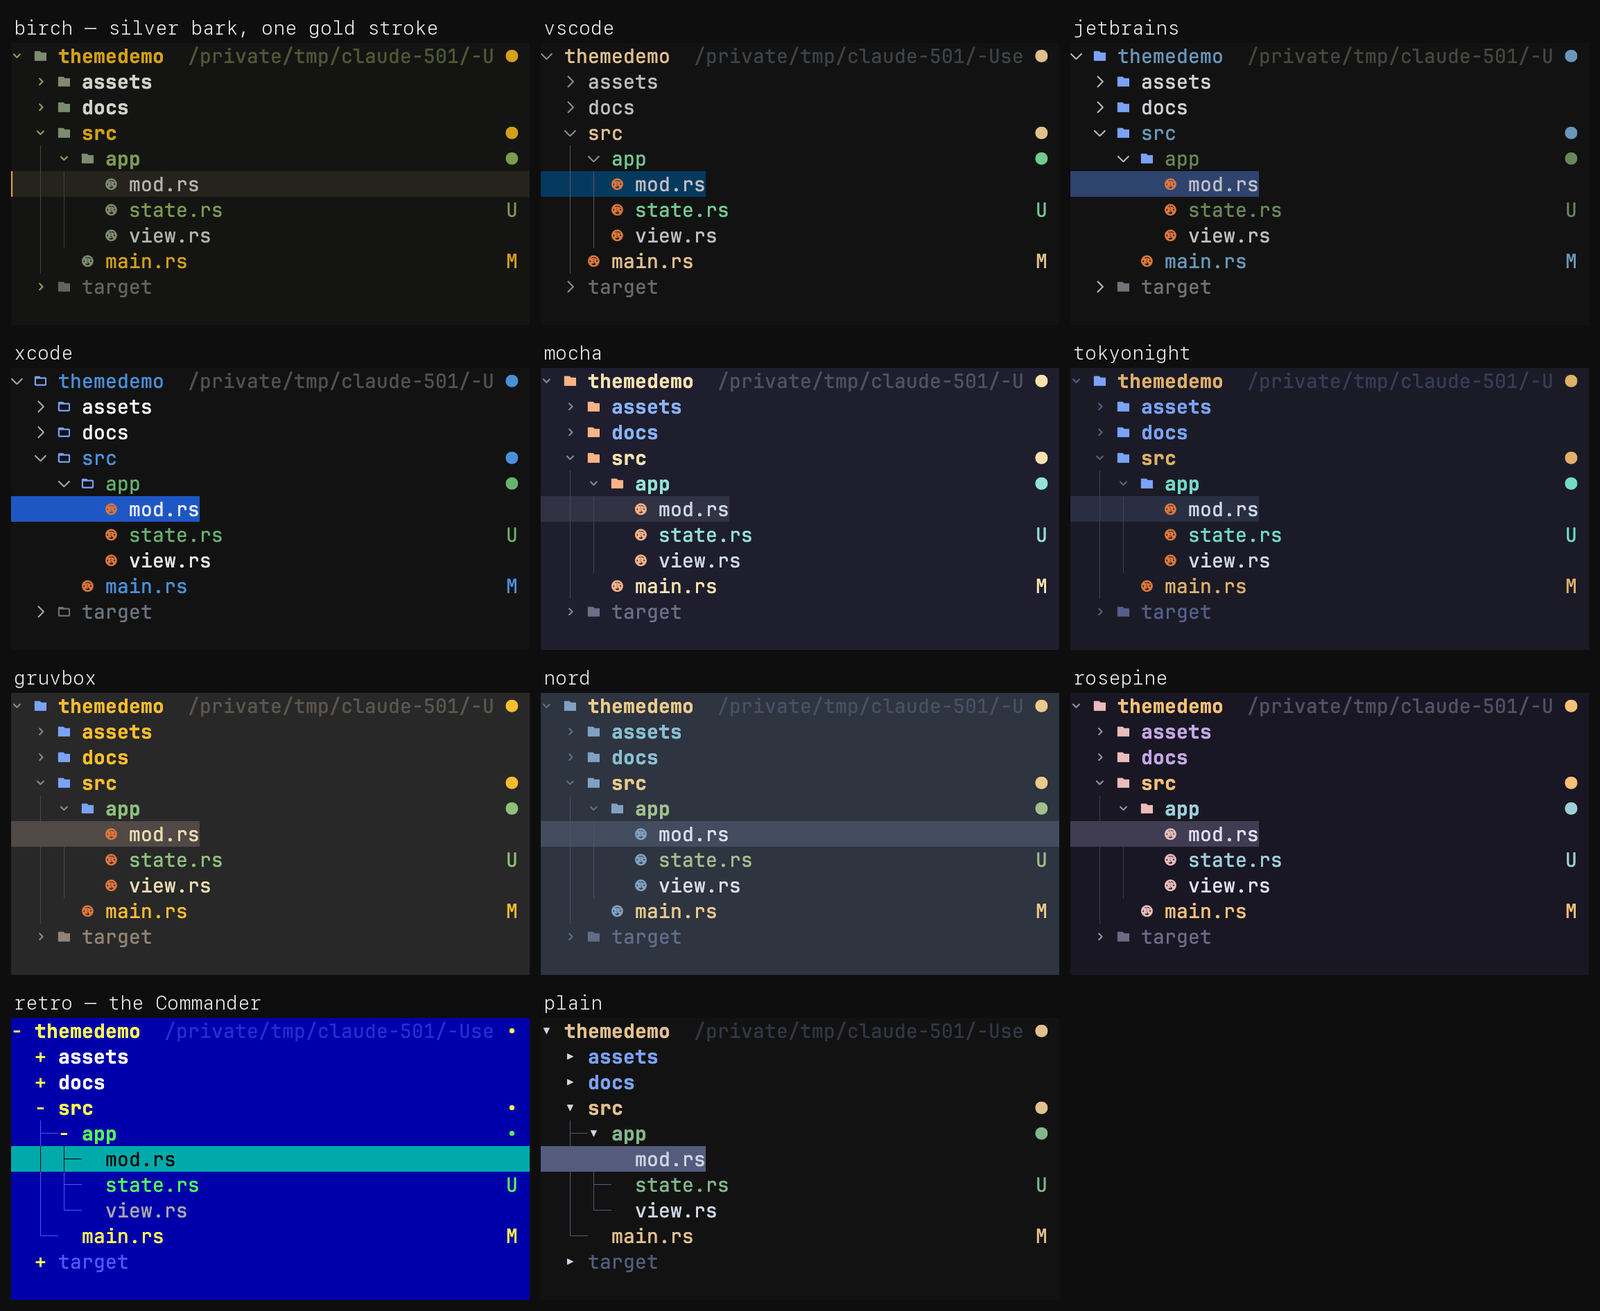
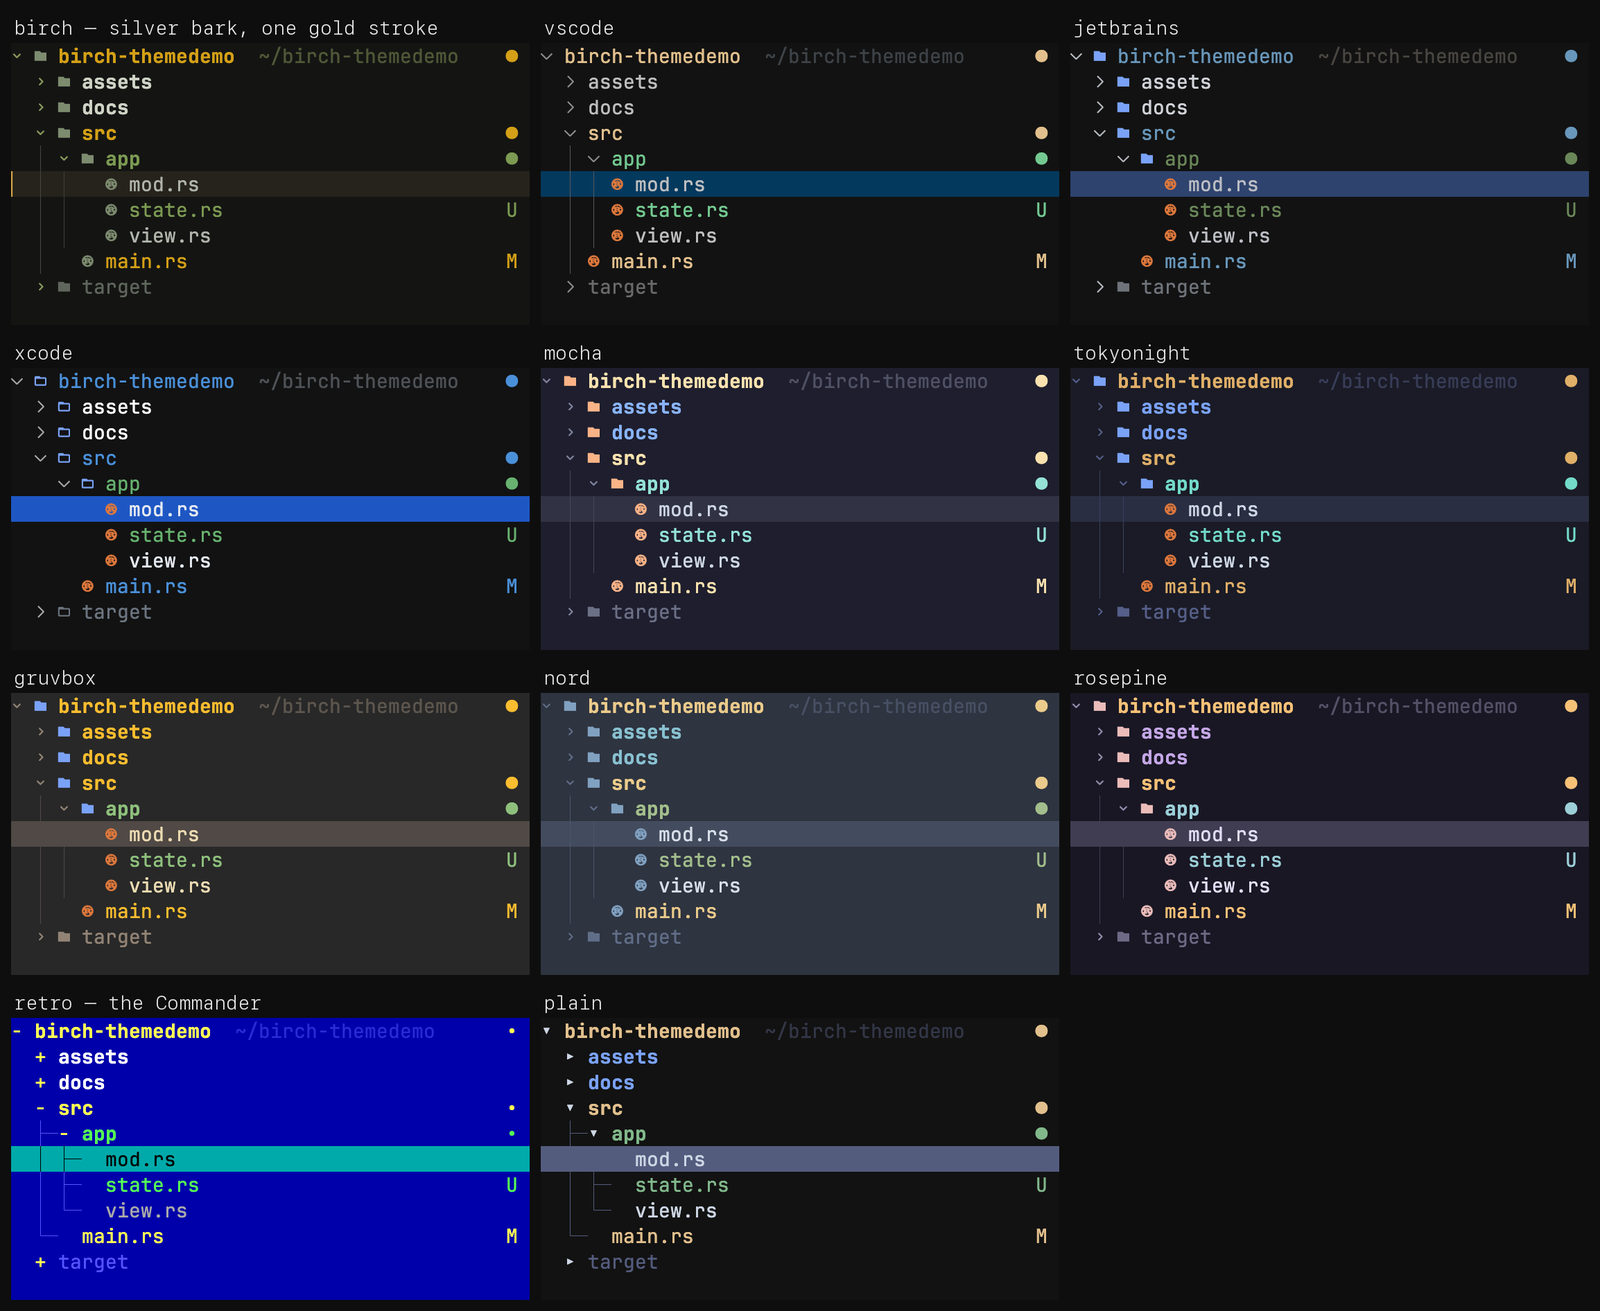
fix(review): re-capture themes.png on a neutral path; doc corrections
The catalog screenshot leaked a local sandbox path in the root annotation —
re-rendered on a home-anchored fixture (annotation now ~-abbreviated).
Review should-fixes: README ctl-set key list (theme, not files-first);
design.md defaults table (files-first row dropped, theme row + config/ADR
references added); full theme id list in the ctl help; ADR 0011 setting list;
gruvbox bg2 comment; theme set handler returns an error instead of a latent
unreachable panic.

diff --git a/crates/birch/src/ctl_client.rs b/crates/birch/src/ctl_client.rs
@@ -52,7 +52,8 @@ enum VerbCmd {
         #[arg(value_enum)]
         setting: SettingArg,
         /// on/off/true/false/1/0/toggle — or, for `theme`, a theme id
-        /// (birch/vscode/jetbrains/xcode/retro/plain).
+        /// (birch/vscode/jetbrains/xcode/mocha/tokyonight/gruvbox/nord/
+        /// rosepine/retro/plain).
         value: String,
     },
     /// Re-root the tree.

diff --git a/crates/birch/src/app.rs b/crates/birch/src/app.rs
@@ -565,7 +565,7 @@ impl App {
                     self.repo_root = None;
                 }
             }
-            SettingKey::Theme => unreachable!("theme is handled before value parsing"),
+            SettingKey::Theme => return Response::err("theme is handled before value parsing"),
         }
         Response::ok(None)
     }

diff --git a/docs/design.md b/docs/design.md
@@ -56,12 +56,16 @@ birch ctl <verb> [...]    # control a running instance (see Control socket)
 |---|---|---|
 | Icons | on | `--no-icons` |
 | Git status | on | `--no-git` |
-| Directories first | on | `--files-first` |
 | Gitignored files | shown, dimmed, **auto-collapsed** | `--hide-ignored` |
 | Hidden (dot) files | shown | `--hide-hidden` |
 | Noise (`.git`, `.DS_Store`, …) | hidden | `--show-noise` |
 | Compact folders | on | `--no-compact` |
 | Mouse | on | `--no-mouse` |
+| Theme | `birch` | `--theme <id>` |
+
+Directories always sort before files. Defaults persist in the config file
+(`~/.config/birch/birch.toml`, ADR 0022); boolean flags are bidirectional, and the precedence is
+config < flags < `birch ctl set`. The theme catalog is ADR 0021.
 
 Flags set initial values; runtime changes go through `birch ctl set` (and possibly a few hotkeys later — added sparingly).
 

diff --git a/docs/adr/0011-ndjson-protocol.md b/docs/adr/0011-ndjson-protocol.md
@@ -34,7 +34,7 @@ Responses always carry `ok`:
 - Verbs: `reveal`, `get-path` (`form`: `name` | `rel` | `abs`, default `rel`), `get-root`,
   `set`, `set-root`, `open`, `quit` — the closed set, verbatim from the design doc. No
   mutation verbs, ever.
-- `set` settings: `hidden`, `ignored`, `noise`, `icons`, `compact`, `git`, `files-first`;
+- `set` settings: `hidden`, `ignored`, `noise`, `icons`, `compact`, `git`, `theme`;
   values `on`/`off`/`true`/`false`/`1`/`0`/`toggle`.
 - An unparseable line or unknown verb gets `ok: false` with an error; the connection
   stays open (one bad request must not kill a host's control channel).

diff --git a/README.md b/README.md
@@ -181,7 +181,7 @@ surface — mostly driven by host adapters rather than run by hand:
 
 ```sh
 birch ctl reveal src/main.rs   # select and scroll to a path — this is how the tree follows an editor
-birch ctl set git off          # flip a setting: hidden | ignored | noise | icons | compact | git | files-first
+birch ctl set git off          # flip a setting: hidden | ignored | noise | icons | compact | git | theme
 birch ctl get-path --abs       # print the current selection
 birch ctl quit                 # exit the instance
 ```
